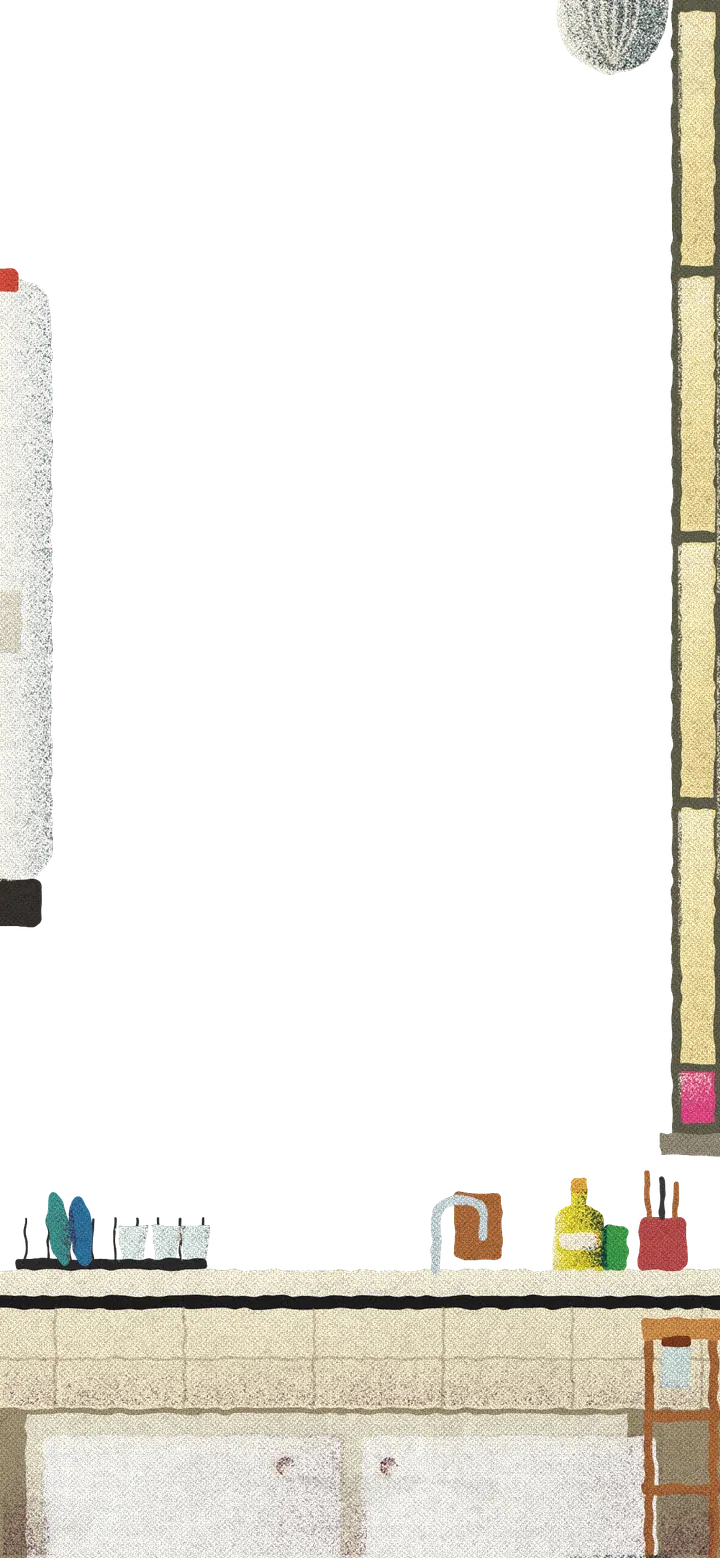
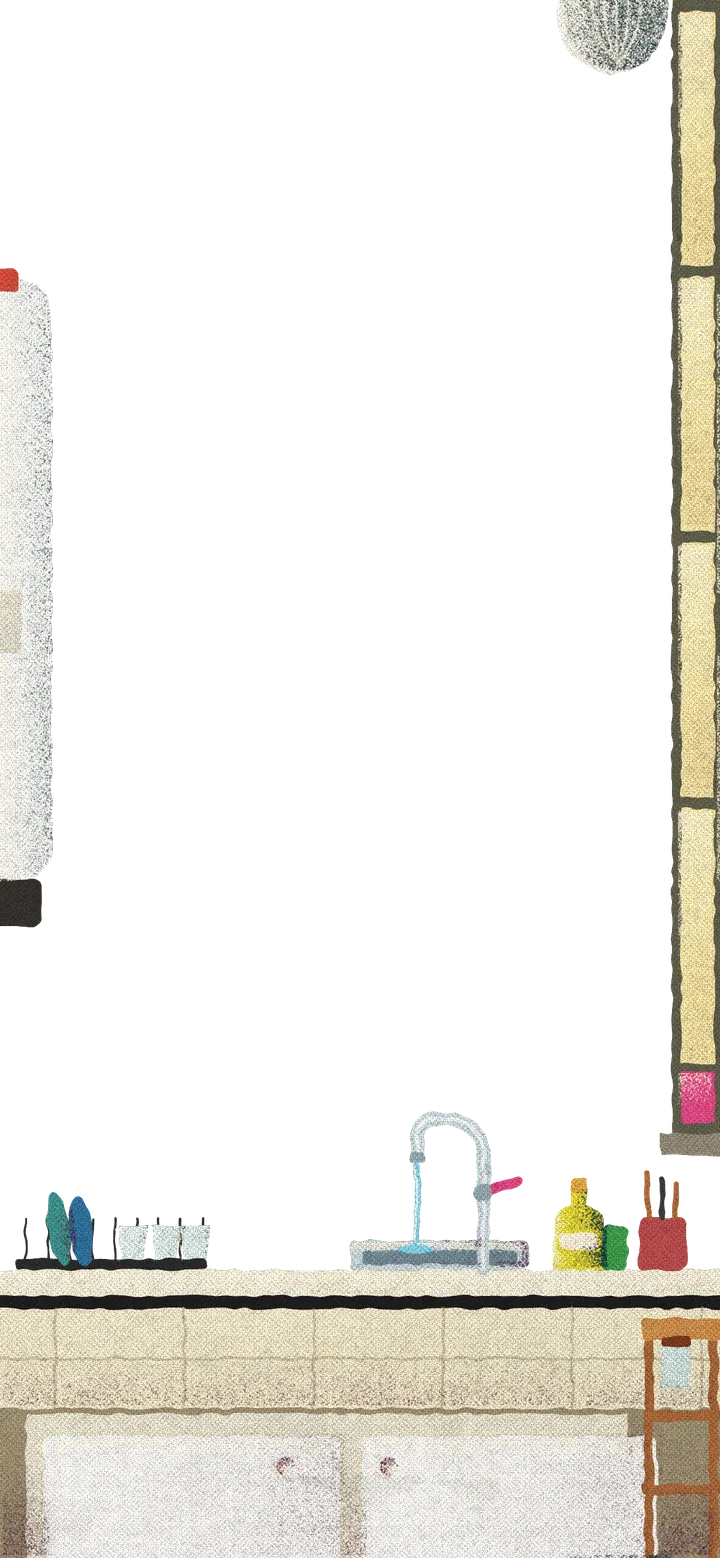
Mi bar: kitchen frame with animated tap
Claude-Session: https://claude.ai/code/session_01EMXnAxq4LMvieSwDYu5mi1

Changed region(s): [[0.4889, 0.7086, 0.7333, 0.8318], [0.7944, 0.0, 0.8861, 0.0616]]

diff --git a/sw.js b/sw.js
@@ -1,4 +1,4 @@
-const C='tragos-v11';
+const C='tragos-v12';
 const FILES=['./','./index.html','./manifest.webmanifest','./icon-192.png','./icon-512.png','./icon-180.png','./assets/Ruina.ttf',
  ...['mi','tiki','clasico'].flatMap(b=>[0,1,2,3].map(f=>`./assets/marco/${b}_${f}.webp`)),
  ...['old-fashioned','mai-tai','pina-colada','painkiller','jungle-bird','daiquiri','negroni','margarita','martini','manhattan','mojito','aperol-spritz','whiskey-sour','espresso-martini','fernet-coca','cynar-pomelo','gancia-sprite'].map(d=>`./assets/drinks/${d}.webp`)];
